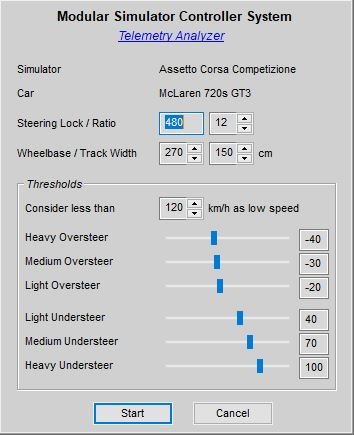
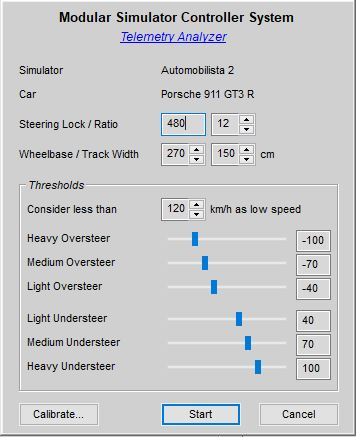
Analyzer Calibration Part 5

diff --git a/Docs/Setup Advisor.md b/Docs/Setup Advisor.md
@@ -51,7 +51,7 @@ In this dialog you can initialize the analyzer for your car and you targeted dri
      - If you don't like understeering, move the corresponding sliders to the left.
      - And so on...
   
-     As said, you must experiment with the positions of the thresholds, until the analyzer will *reflect* your desired driving style and will only collect those over- and understeer issues, which you want to *report*. The settings you choose, will be remembered for each simulator / track / car combination, so you have to dial them only once.
+     As said, you must experiment with the positions of the thresholds, until the analyzer will *reflect* your desired driving style and will only collect those over- and understeer issues, which you want to *report*. If you want the analyzer to detect those values for you, you can use a special calibration mode. If you click on "Calibrate..." you will be aksed to first drive a couple of laps as clean as possible (without over- or understeering the car) and then drive as dirty as possible, but without loosing control and going off-track. The analyzer will then use the collected data  to come up with some decent settings for the thresholds to work with. Whatever way you choose, the position of the sliders and all other values will be remembered for each simulator / car combination, so you have to go through this process only once.
 	 
 	 Technical: The sliders indicate from which value a deviation of the ideal yaw angle is considered light, medium or heavy. If there is no glide angle at all, this value is 0. In the case of oversteer, the value is negative (the larger, the more drift angle) and in the case of understeer, the value is positive, the larger, the more understeer. If the wheelbase and the track width has been set exactly as known to the simulator, the values used here are ten times that of the slip angle (aka deviation of the ideal yaw angle). Therefore an oversteer angle by 3 degrees will have a value of -30.
 
